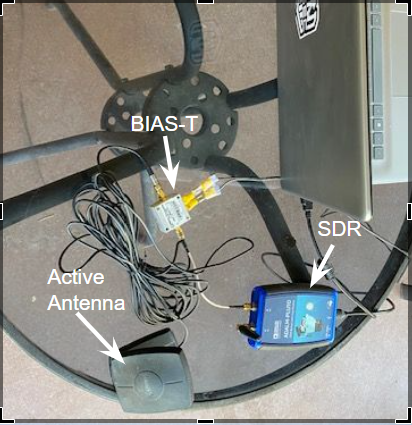
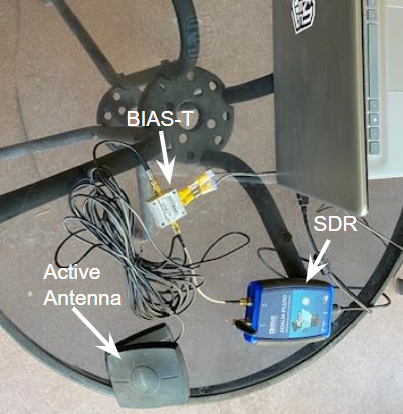
Correctly cropping image used to show lab setup

diff --git a/latex/final_report.tex b/latex/final_report.tex
@@ -419,7 +419,7 @@ A GNU radio companion setup was created (see Figure \ref{fig::gnu_collect}) to c
 	\label{fig::gnu_collect}
 \end{figure}
 \begin{figure}[H]
-	\centerline{\fbox{\includegraphics[width=0.5\textwidth]{capture_setup.png}}}
+	\centerline{\includegraphics[width=0.5\textwidth]{capture_setup.png}}
 	\caption{Hardware Setup for GNU Radio Collection}
 	\label{fig::gnu_hardware}
 \end{figure}
